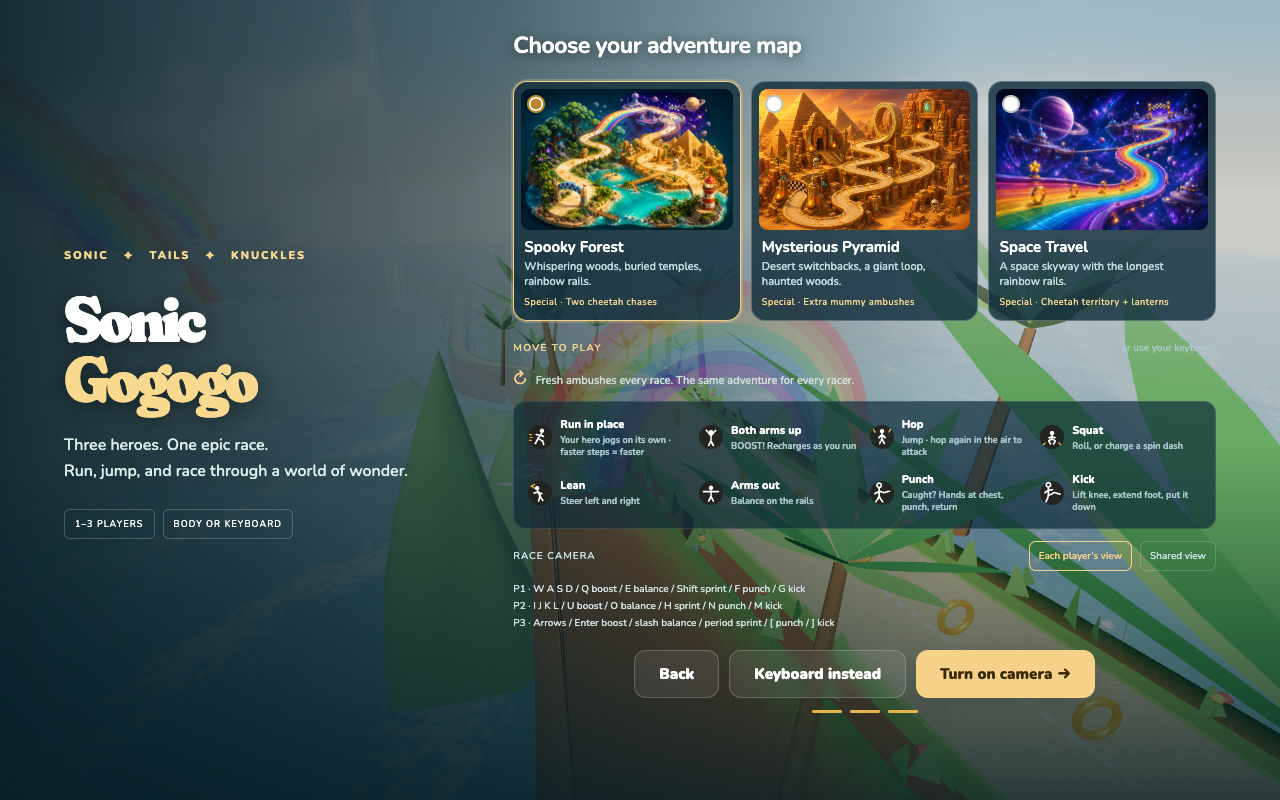
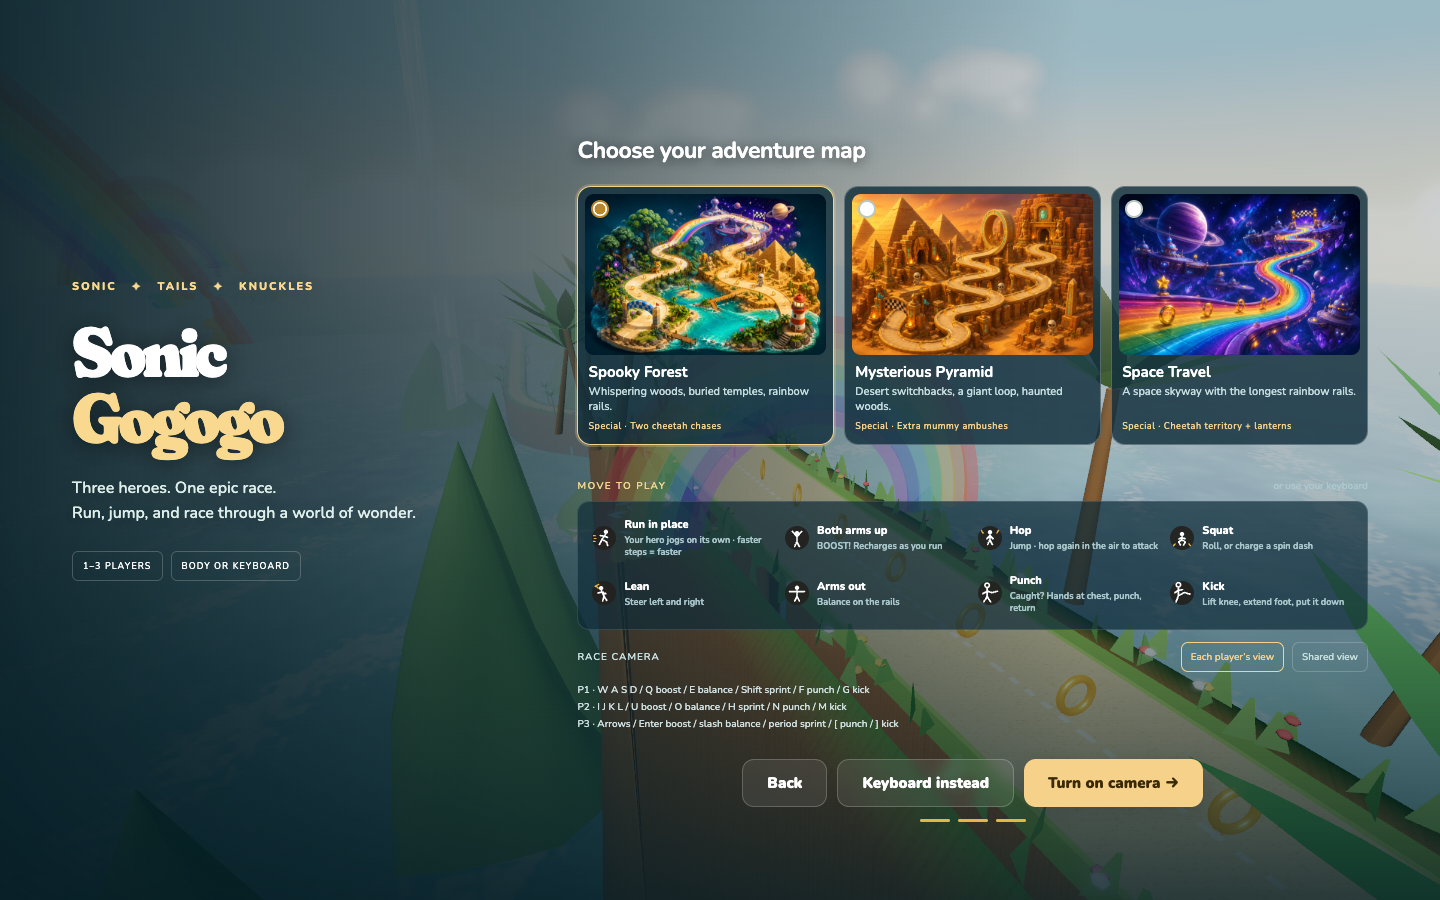
ui: rebalance map-select layout, drop the ambush note line
On tall screens the step-3 panel gets extra top padding and evened
section gaps so the map cards no longer pin to the screen top.

diff --git a/public/index.html b/public/index.html
@@ -147,9 +147,10 @@ button:focus-visible{outline:3px solid var(--gold);outline-offset:3px}
 
 /* Maps display the actual route geometry, landmarks, and the challenge mix. */
 #start[data-step="3"]{padding-top:30px;padding-bottom:45px;justify-content:flex-start}#start[data-step="3"] .panel{flex-shrink:0}#start[data-step="3"] .readlink{display:none}#start[data-step="3"] .stepper{margin-top:12px}#start[data-step="3"] .panel{width:61%;max-width:940px}#start[data-step="3"] .menu-head{width:28%;top:31%}#start[data-step="3"] .title{font-size:clamp(42px,5vw,70px)}
-.destinations .destination-art{aspect-ratio:3/2;height:auto;background:#173a44;border-radius:9px;overflow:hidden}.destination-art img{width:100%;height:100%;object-fit:cover;display:block}.destinations small{font-size:11px;line-height:1.4;min-height:32px}.destinations em{display:block;font-style:normal;font-size:9px;letter-spacing:.06em;margin:6px 3px 0;color:#f4d38e}.destinations b{font-size:15px}.map-note{font-size:11px;line-height:1.4;color:#cfdfda;padding:4px 0}.map-note span{color:#f7d48e;font-size:17px;margin-right:6px}.moves{grid-template-columns:repeat(4,1fr);gap:4px 10px}.move svg{width:24px;height:24px}.move span{font-size:9px}.move b{font-size:11px}
+.destinations .destination-art{aspect-ratio:3/2;height:auto;background:#173a44;border-radius:9px;overflow:hidden}.destination-art img{width:100%;height:100%;object-fit:cover;display:block}.destinations small{font-size:11px;line-height:1.4;min-height:32px}.destinations em{display:block;font-style:normal;font-size:9px;letter-spacing:.06em;margin:6px 3px 0;color:#f4d38e}.destinations b{font-size:15px}.moves{grid-template-columns:repeat(4,1fr);gap:4px 10px}.move svg{width:24px;height:24px}.move span{font-size:9px}.move b{font-size:11px}
 #challengePanels{position:absolute;inset:0;display:flex;pointer-events:none}.challenge-slot{flex:1;min-width:0;position:relative}.challenge-card{position:absolute;top:210px;left:10px;right:10px;max-width:360px;margin:auto;border:1px solid #f5c77980;border-radius:14px;background:#102a39ed;color:#fff;padding:12px;box-shadow:0 5px 20px #00101944}.challenge-card strong{display:block;color:#ffe0a5;font-size:14px;letter-spacing:.01em}.challenge-card p{font-size:12px;line-height:1.4;margin-top:5px}.challenge-card.combat{border-color:#ffae96;background:#382b3aed}.combat-meter{display:flex;gap:10px;margin-top:9px}.combat-meter span{font-size:11px;font-weight:800;display:flex;gap:5px;align-items:center}.combat-meter i{width:10px;height:10px;border:1px solid #e1b9a1;border-radius:50%;display:inline-block}.combat-meter i.lit{background:#92e2c0;border-color:#92e2c0;box-shadow:0 0 8px #92e2c050}.chase-meter{height:5px;background:#ffffff30;border-radius:3px;margin-top:8px;overflow:hidden}.chase-meter i{display:block;height:100%;background:linear-gradient(90deg,#ff917e,#f4d48d,#87dcb6)}
 #hud:not(.on) #challengePanels{display:none}
+@media(min-height:700px){#start[data-step="3"]{padding-top:calc(72px + 7vh)}#start[data-step="3"] .control-label{margin-top:34px}#start[data-step="3"] .row{margin-top:26px}}
 @media(max-width:1050px){#start[data-step="3"] .panel{width:64%}#start[data-step="3"] .menu-head{width:27%}.moves{grid-template-columns:repeat(2,1fr)}.destinations b{font-size:13px}}
 @media(max-width:720px){#start[data-step="3"] .panel{width:100%}#start[data-step="3"] .menu-head{width:100%;top:auto}#start[data-step="3"] .title{font-size:48px}.destinations b{font-size:12px}.destinations small{font-size:9px;min-height:28px}.destinations em{font-size:8px}.moves{grid-template-columns:repeat(2,1fr)}}
 @media(max-width:720px),(max-aspect-ratio:1/1){#challengePanels[data-split="true"]{flex-direction:column}.challenge-card{top:140px;left:10px;right:auto;width:calc(100% - 170px);padding:8px;border-radius:10px}.challenge-slot:not(:first-child) .challenge-card{top:45px}.challenge-card strong{font-size:11px}.challenge-card p{font-size:10px}.combat-meter{gap:7px;flex-wrap:wrap;margin-top:6px}.combat-meter span{font-size:9px}.combat-meter i{height:7px;width:7px}.challenge-card.combat p{font-size:9px}#challengePanels[data-split="false"] .challenge-card{width:calc(100% - 20px);max-width:350px;left:10px;right:10px;top:160px}}
@@ -216,7 +217,6 @@ addEventListener('error',()=>{const el=document.getElementById('loading');if(el&
       <button data-destination="aurora" aria-pressed="false"><span class="destination-art" id="mapArt-aurora"></span><b>Mysterious Pyramid</b><small>Desert switchbacks, a giant loop, haunted woods.</small><em>Special · Extra mummy ambushes</em></button>
       <button data-destination="blossom" aria-pressed="false"><span class="destination-art" id="mapArt-blossom"></span><b>Space Travel</b><small>A space skyway with the longest rainbow rails.</small><em>Special · Cheetah territory + lanterns</em></button>
     </div><div class="control-label">MOVE TO PLAY <span>or use your keyboard</span></div>
-    <div class="map-note"><span>↻</span> Fresh ambushes every race. The same adventure for every racer.</div>
     <div class="moves" id="moves"></div>
     <div class="view-options" id="viewOptions"><span>RACE CAMERA</span><button data-view="split" aria-pressed="true">Each player’s view</button><button data-view="shared" aria-pressed="false">Shared view</button></div><div id="keyboardGuide">P1 · W A S D / Q boost / E balance / Shift sprint<br>P2 · I J K L / U boost / O balance / H sprint<br>P3 · Arrow keys / Enter boost / slash balance / period sprint</div><div class="row"><button class="btn quiet" id="back3">Back</button><button class="btn quiet" id="keyboardPlay">Keyboard instead</button><button class="btn" id="playBtn">Turn on camera →</button></div>
     <ol class="stepper"><li class="on"></li><li class="on"></li><li class="on"></li></ol>

diff --git a/src/1_head.html b/src/1_head.html
@@ -147,9 +147,10 @@ button:focus-visible{outline:3px solid var(--gold);outline-offset:3px}
 
 /* Maps display the actual route geometry, landmarks, and the challenge mix. */
 #start[data-step="3"]{padding-top:30px;padding-bottom:45px;justify-content:flex-start}#start[data-step="3"] .panel{flex-shrink:0}#start[data-step="3"] .readlink{display:none}#start[data-step="3"] .stepper{margin-top:12px}#start[data-step="3"] .panel{width:61%;max-width:940px}#start[data-step="3"] .menu-head{width:28%;top:31%}#start[data-step="3"] .title{font-size:clamp(42px,5vw,70px)}
-.destinations .destination-art{aspect-ratio:3/2;height:auto;background:#173a44;border-radius:9px;overflow:hidden}.destination-art img{width:100%;height:100%;object-fit:cover;display:block}.destinations small{font-size:11px;line-height:1.4;min-height:32px}.destinations em{display:block;font-style:normal;font-size:9px;letter-spacing:.06em;margin:6px 3px 0;color:#f4d38e}.destinations b{font-size:15px}.map-note{font-size:11px;line-height:1.4;color:#cfdfda;padding:4px 0}.map-note span{color:#f7d48e;font-size:17px;margin-right:6px}.moves{grid-template-columns:repeat(4,1fr);gap:4px 10px}.move svg{width:24px;height:24px}.move span{font-size:9px}.move b{font-size:11px}
+.destinations .destination-art{aspect-ratio:3/2;height:auto;background:#173a44;border-radius:9px;overflow:hidden}.destination-art img{width:100%;height:100%;object-fit:cover;display:block}.destinations small{font-size:11px;line-height:1.4;min-height:32px}.destinations em{display:block;font-style:normal;font-size:9px;letter-spacing:.06em;margin:6px 3px 0;color:#f4d38e}.destinations b{font-size:15px}.moves{grid-template-columns:repeat(4,1fr);gap:4px 10px}.move svg{width:24px;height:24px}.move span{font-size:9px}.move b{font-size:11px}
 #challengePanels{position:absolute;inset:0;display:flex;pointer-events:none}.challenge-slot{flex:1;min-width:0;position:relative}.challenge-card{position:absolute;top:210px;left:10px;right:10px;max-width:360px;margin:auto;border:1px solid #f5c77980;border-radius:14px;background:#102a39ed;color:#fff;padding:12px;box-shadow:0 5px 20px #00101944}.challenge-card strong{display:block;color:#ffe0a5;font-size:14px;letter-spacing:.01em}.challenge-card p{font-size:12px;line-height:1.4;margin-top:5px}.challenge-card.combat{border-color:#ffae96;background:#382b3aed}.combat-meter{display:flex;gap:10px;margin-top:9px}.combat-meter span{font-size:11px;font-weight:800;display:flex;gap:5px;align-items:center}.combat-meter i{width:10px;height:10px;border:1px solid #e1b9a1;border-radius:50%;display:inline-block}.combat-meter i.lit{background:#92e2c0;border-color:#92e2c0;box-shadow:0 0 8px #92e2c050}.chase-meter{height:5px;background:#ffffff30;border-radius:3px;margin-top:8px;overflow:hidden}.chase-meter i{display:block;height:100%;background:linear-gradient(90deg,#ff917e,#f4d48d,#87dcb6)}
 #hud:not(.on) #challengePanels{display:none}
+@media(min-height:700px){#start[data-step="3"]{padding-top:calc(72px + 7vh)}#start[data-step="3"] .control-label{margin-top:34px}#start[data-step="3"] .row{margin-top:26px}}
 @media(max-width:1050px){#start[data-step="3"] .panel{width:64%}#start[data-step="3"] .menu-head{width:27%}.moves{grid-template-columns:repeat(2,1fr)}.destinations b{font-size:13px}}
 @media(max-width:720px){#start[data-step="3"] .panel{width:100%}#start[data-step="3"] .menu-head{width:100%;top:auto}#start[data-step="3"] .title{font-size:48px}.destinations b{font-size:12px}.destinations small{font-size:9px;min-height:28px}.destinations em{font-size:8px}.moves{grid-template-columns:repeat(2,1fr)}}
 @media(max-width:720px),(max-aspect-ratio:1/1){#challengePanels[data-split="true"]{flex-direction:column}.challenge-card{top:140px;left:10px;right:auto;width:calc(100% - 170px);padding:8px;border-radius:10px}.challenge-slot:not(:first-child) .challenge-card{top:45px}.challenge-card strong{font-size:11px}.challenge-card p{font-size:10px}.combat-meter{gap:7px;flex-wrap:wrap;margin-top:6px}.combat-meter span{font-size:9px}.combat-meter i{height:7px;width:7px}.challenge-card.combat p{font-size:9px}#challengePanels[data-split="false"] .challenge-card{width:calc(100% - 20px);max-width:350px;left:10px;right:10px;top:160px}}
@@ -216,7 +217,6 @@ addEventListener('error',()=>{const el=document.getElementById('loading');if(el&
       <button data-destination="aurora" aria-pressed="false"><span class="destination-art" id="mapArt-aurora"></span><b>Mysterious Pyramid</b><small>Desert switchbacks, a giant loop, haunted woods.</small><em>Special · Extra mummy ambushes</em></button>
       <button data-destination="blossom" aria-pressed="false"><span class="destination-art" id="mapArt-blossom"></span><b>Space Travel</b><small>A space skyway with the longest rainbow rails.</small><em>Special · Cheetah territory + lanterns</em></button>
     </div><div class="control-label">MOVE TO PLAY <span>or use your keyboard</span></div>
-    <div class="map-note"><span>↻</span> Fresh ambushes every race. The same adventure for every racer.</div>
     <div class="moves" id="moves"></div>
     <div class="view-options" id="viewOptions"><span>RACE CAMERA</span><button data-view="split" aria-pressed="true">Each player’s view</button><button data-view="shared" aria-pressed="false">Shared view</button></div><div id="keyboardGuide">P1 · W A S D / Q boost / E balance / Shift sprint<br>P2 · I J K L / U boost / O balance / H sprint<br>P3 · Arrow keys / Enter boost / slash balance / period sprint</div><div class="row"><button class="btn quiet" id="back3">Back</button><button class="btn quiet" id="keyboardPlay">Keyboard instead</button><button class="btn" id="playBtn">Turn on camera →</button></div>
     <ol class="stepper"><li class="on"></li><li class="on"></li><li class="on"></li></ol>
